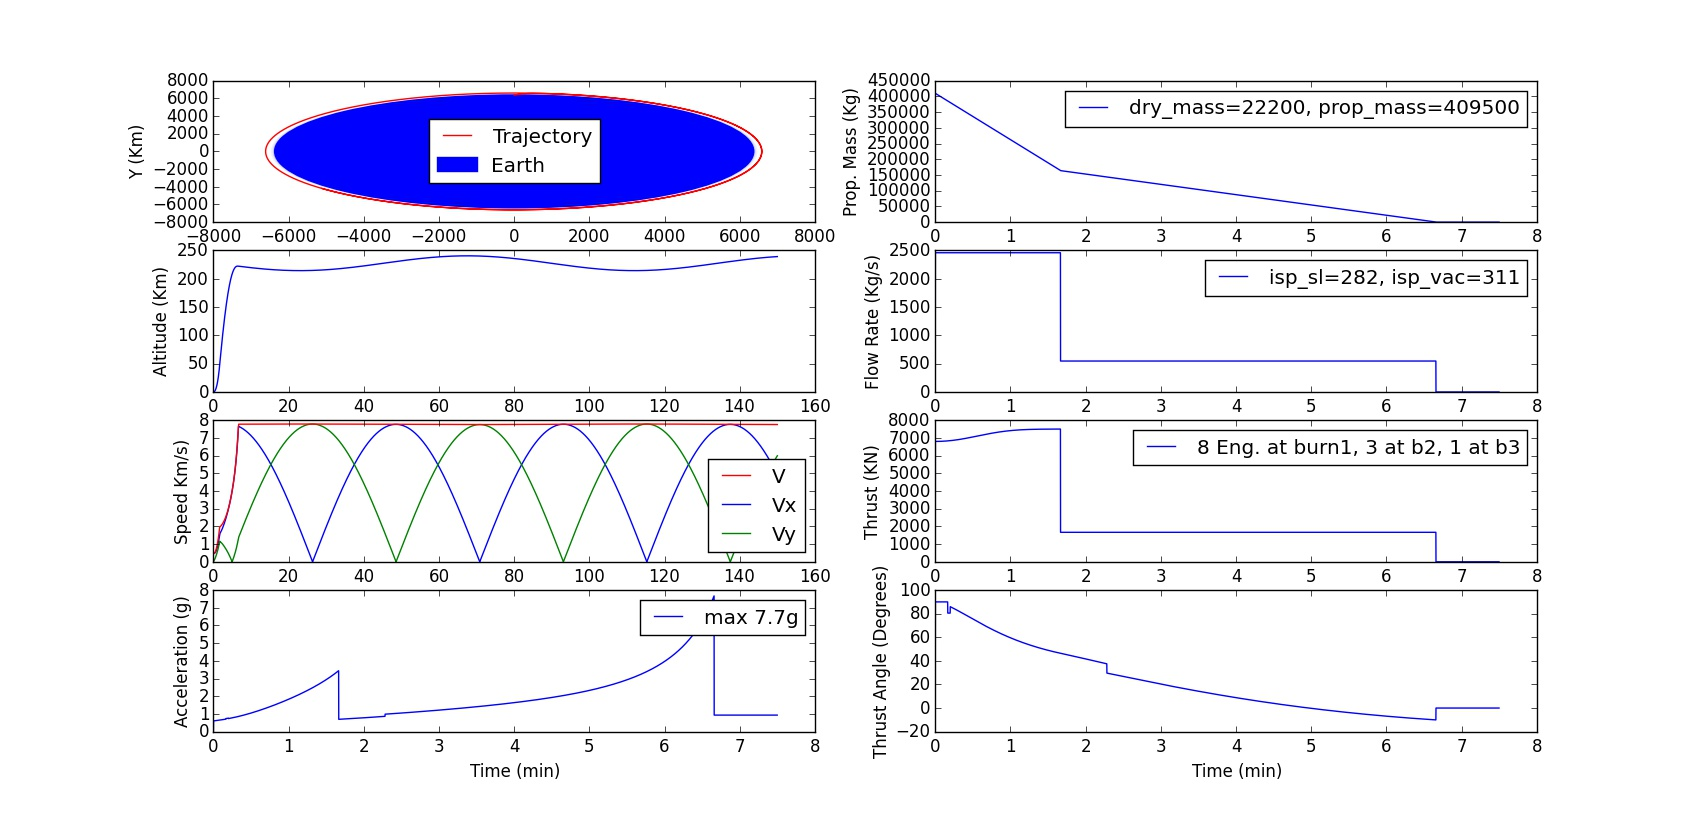
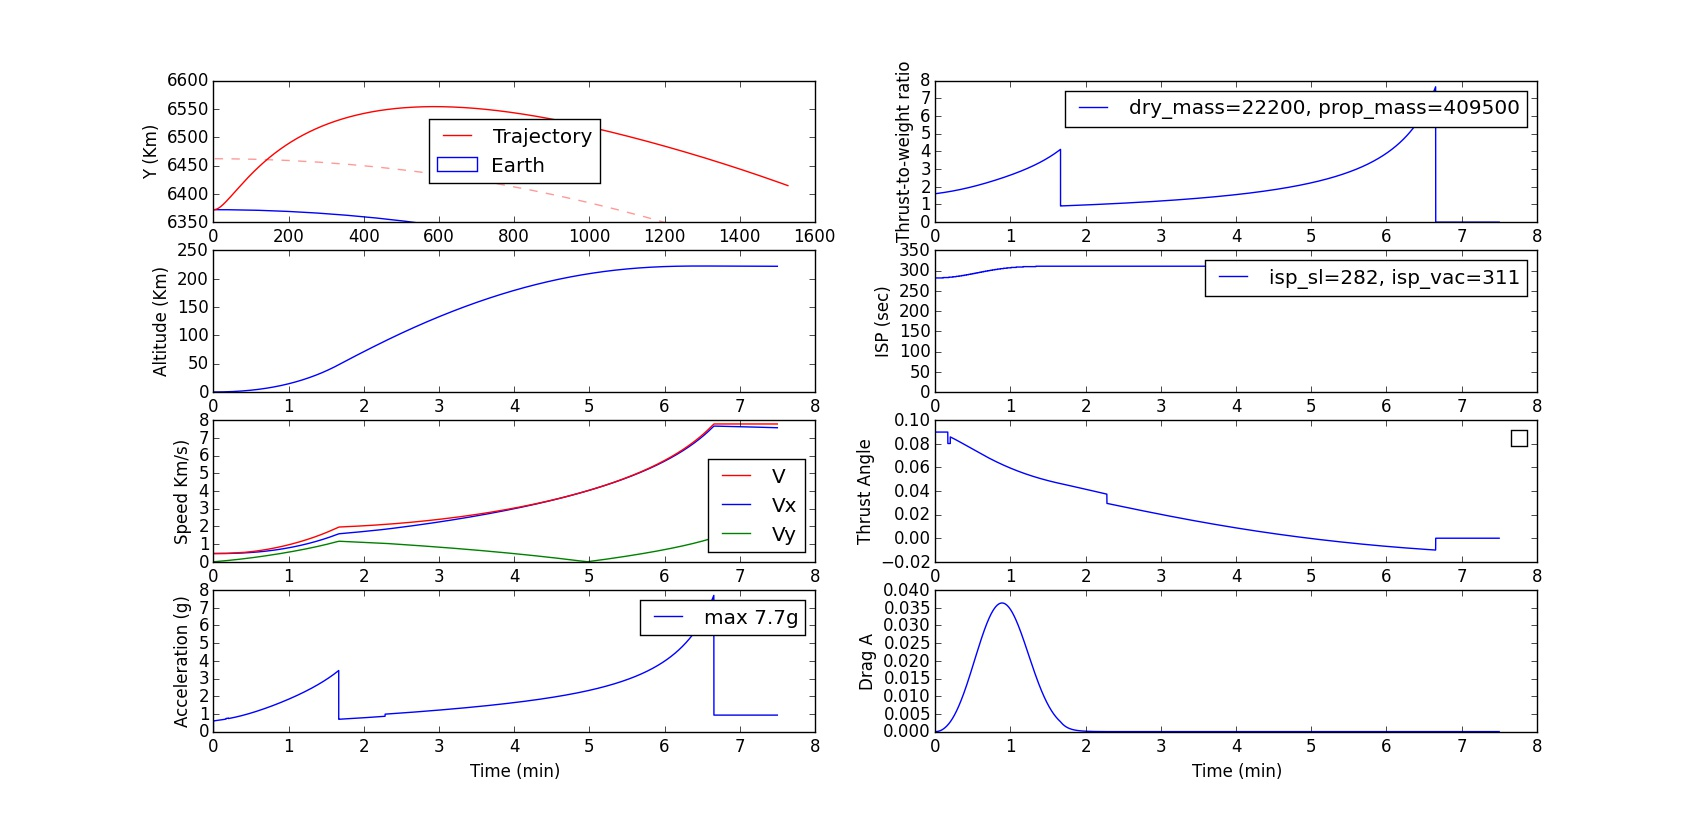
fine tune
periapsis_radius: 221km apoapsis_radius: 276km semimajor_axis 6620km
eccentricity: 0.004
pitch angle 80.3 for 2 s
burn 9 engines upto 100 s
burn 2 engines from 100 s to 400 s

diff --git a/falcon9_SSTO_gravity_assist.py b/falcon9_SSTO_gravity_assist.py
@@ -40,6 +40,8 @@ ref_area = diameter**2 * pi / 4.   #  reference cross section area - used for dr
 m1D_flow_rate = merlin_1D_thrust_sl/merlin_1D_specific_impulse_sl
 
 flow_rate = 0.
+isp = 0.
+thrust_total = 0.
 
 mass = inert_mass + propellant_mass
 omega = 2.0*pi/(23.*3600+56*50+4)  # Earth's angular velocity
@@ -60,6 +62,8 @@ TMP_POS_MASS = 6
 TMP_POS_THRUST = 7
 TMP_POS_FLOW_RATE = 8
 TMP_POS_THRUST_ANGLE = 9
+TMP_POS_ISP = 10
+TMP_POS_TWR = 11
 
 ENABLE_DRAG = True
 
@@ -101,7 +105,7 @@ def compute_orbit(x, y, vx, vy):
 def get_rocket_acceleration(x,y,t, vx, vy):
     a_rocket = [0., 0.]
 
-    global flow_rate
+    global flow_rate, thrust_total
     flow_rate = 0.
     thrust_total = 0.
         
@@ -122,6 +126,7 @@ def get_rocket_acceleration(x,y,t, vx, vy):
     
     r = sqrt(x**2 + y**2)
     altitude = r - Re
+    global isp
     isp = (merlin_1D_specific_impulse_sl - merlin_1D_specific_impulse_vac1)*exp(-altitude/H_FOR_PRESSURE) + merlin_1D_specific_impulse_vac1
     
 
@@ -131,7 +136,7 @@ def get_rocket_acceleration(x,y,t, vx, vy):
             thrust_angle = 90.
             
         elif t<= 12:
-            thrust_angle = 80.5
+            thrust_angle = 80.3
             
         else:
             if altitude < ATMOSPHERE_HEIGHT:
@@ -297,7 +302,7 @@ def get_trajectory(x0, y0, v0):
     global curr_drag_acceleration
     global curr_acceleration
     
-    while sqrt(args0[POS_X]**2 + args0[POS_Y]**2) >= Re and t < 9000: 
+    while sqrt(args0[POS_X]**2 + args0[POS_Y]**2) >= Re and t < 450: 
         tmp_args = list(args0)
         tmp_args.append(curr_drag_acceleration)            
         tmp_args.append(curr_acceleration)
@@ -305,6 +310,8 @@ def get_trajectory(x0, y0, v0):
         tmp_args.append(current_thrust)
         tmp_args.append(current_flow_rate)
         tmp_args.append(current_thrust_angle)
+        tmp_args.append(isp)
+        tmp_args.append(thrust_total/(mass*g_sl))
         trajectory.append( (t, tmp_args) )        
         
         
@@ -333,7 +340,7 @@ def get_trajectory(x0, y0, v0):
             mass = inert_mass + propellant_mass
         
         global periapsis_radius, apoapsis_radius, semimajor_axis,eccentricity
-        if semimajor_axis == 0 and t > burn_time_3_end:
+        if semimajor_axis == 0 and t > burn_time_2_end:
             print 'altitude:', altitude
             periapsis_radius, apoapsis_radius, semimajor_axis,eccentricity = compute_orbit(args0[POS_X], args0[POS_Y], args0[POS_VX], args0[POS_VY])
             print 'periapsis_radius:', periapsis_radius - Re, 'apoapsis_radius:', apoapsis_radius - Re, 'semimajor_axis', semimajor_axis, 'eccentricity:', eccentricity
@@ -367,16 +374,16 @@ current_thrust_angle = 0.
 
 ENABLE_DRAG = True
 trajectory = get_trajectory(x0, y0, v0) 
-tmp_plot_1, = ax1.plot([x0i[POS_X]/1000. for ti,x0i in trajectory], [x0i[POS_Y]/1000. for ti,x0i in trajectory], color='r', label='Trajectory')
+tmp_plot_1, = ax1.plot([x0i[POS_X]/1000. for ti,x0i in trajectory if ti < 450], [x0i[POS_Y]/1000. for ti,x0i in trajectory if ti < 450], color='r', label='Trajectory')
 tmp_plot_2x, = ax2.plot([ti/60. for ti,x0i in trajectory], [abs(x0i[POS_VX])/1000. for ti,x0i in trajectory], label='Vx')
 tmp_plot_2y, = ax2.plot([ti/60. for ti,x0i in trajectory], [abs(x0i[POS_VY])/1000. for ti,x0i in trajectory], label='Vy')
 tmp_plot_2, = ax2.plot([ti/60. for ti,x0i in trajectory], [sqrt(x0i[POS_VX]**2 + x0i[POS_VY]**2)/1000. for ti,x0i in trajectory], label='V')
 tmp_plot_3, = ax3.plot([ti/60. for ti,x0i in trajectory if ti < 450], [x0i[TMP_POS_A] for ti,x0i in trajectory  if ti < 450], label='max ' + str(round(max_acceleration,1)) + 'g')
 tmp_plot_4, = ax4.plot([ti/60. for ti,x0i in trajectory], [(sqrt(x0i[POS_X]**2 + x0i[POS_Y]**2) - Re)/1000. for ti,x0i in trajectory], label='')
-tmp_plot_5, = ax5.plot([ti/60. for ti,x0i in trajectory if ti < 450], [x0i[TMP_POS_MASS] for ti,x0i in trajectory if ti < 450], label='dry_mass='+ str(int(inert_mass)) +', prop_mass=409500')
-tmp_plot_6, = ax6.plot([ti/60. for ti,x0i in trajectory if ti < 450], [x0i[TMP_POS_THRUST]/1000. for ti,x0i in trajectory if ti < 450], label='8 Eng. at burn1, 3 at b2, 1 at b3')
-tmp_plot_7, = ax7.plot([ti/60. for ti,x0i in trajectory if ti < 450], [x0i[TMP_POS_FLOW_RATE] for ti,x0i in trajectory if ti < 450], label='isp_sl=282, isp_vac=311')
-tmp_plot_8, = ax8.plot([ti/60. for ti,x0i in trajectory if ti < 450], [x0i[TMP_POS_THRUST_ANGLE] for ti,x0i in trajectory if ti < 450], label='')
+tmp_plot_5, = ax5.plot([ti/60. for ti,x0i in trajectory if ti < 450], [x0i[TMP_POS_TWR] for ti,x0i in trajectory if ti < 450], label='dry_mass='+ str(int(inert_mass)) +', prop_mass=409500')
+tmp_plot_6, = ax6.plot([ti/60. for ti,x0i in trajectory if ti < 450], [x0i[TMP_POS_THRUST_ANGLE]/1000. for ti,x0i in trajectory if ti < 450], label='')
+tmp_plot_7, = ax7.plot([ti/60. for ti,x0i in trajectory if ti < 450], [int(round(x0i[TMP_POS_ISP]/g_sl)) for ti,x0i in trajectory if ti < 450], label='isp_sl=282, isp_vac=311')
+tmp_plot_8, = ax8.plot([ti/60. for ti,x0i in trajectory if ti < 450], [x0i[TMP_POS_A_DRAG] for ti,x0i in trajectory if ti < 450], label='')
 ax1_handles.append(tmp_plot_1)
 ax2_handles.append(tmp_plot_2)
 ax2_handles.append(tmp_plot_2x)
@@ -387,10 +394,11 @@ ax5_handles.append(tmp_plot_5)
 ax6_handles.append(tmp_plot_6)
 ax7_handles.append(tmp_plot_7)
 
-earth = ax1.add_artist(plt.Circle((0,0),Re/1000.0,color="b",fill=True,label='Earth'))
-ax1.add_artist(plt.Circle((0,0),(Re/1.0e3+25),color="b",alpha=0.1))
-ax1.add_artist(plt.Circle((0,0),(Re/1.0e3+50),color="b",alpha=0.05))
-ax1.add_artist(plt.Circle((0,0),(Re/1.0e3+90),color="b",alpha=0.04))
+earth = ax1.add_artist(plt.Circle((0,0),Re/1000.0,color="b",fill=False,label='Earth'))
+ax1.add_artist(plt.Circle((0,0),(Re+ATMOSPHERE_HEIGHT)/1000.0,color="r", ls='dashed', fill=False, alpha=0.4))
+#ax1.add_artist(plt.Circle((0,0),(Re/1.0e3+25),color="b",alpha=0.1))
+#ax1.add_artist(plt.Circle((0,0),(Re/1.0e3+50),color="b",alpha=0.05))
+#ax1.add_artist(plt.Circle((0,0),(Re/1.0e3+90),color="b",alpha=0.04))
 
   
 ax1_handles.append(earth)
@@ -403,13 +411,13 @@ ax3.set_ylabel('Acceleration (g)')
 ax4.set_xlabel('Time (min)')
 ax4.set_ylabel('Altitude (Km)')
 ax5.set_xlabel('Time (min)')
-ax5.set_ylabel('Prop. Mass (Kg)')
+ax5.set_ylabel('Thrust-to-weight ratio')
 ax6.set_xlabel('Time (min)')
-ax6.set_ylabel('Thrust (KN)')
+ax6.set_ylabel('Thrust Angle')
 ax7.set_xlabel('Time (min)')
-ax7.set_ylabel('Flow Rate (Kg/s)')
+ax7.set_ylabel('ISP (sec)')
 ax8.set_xlabel('Time (min)')
-ax8.set_ylabel('Thrust Angle (Degrees)')
+ax8.set_ylabel('Drag A')
 ax1.legend(handles=ax1_handles, loc='center')
 ax2.legend(handles=ax2_handles, loc='lower right')
 ax3.legend(handles=ax3_handles, loc='upper right')
